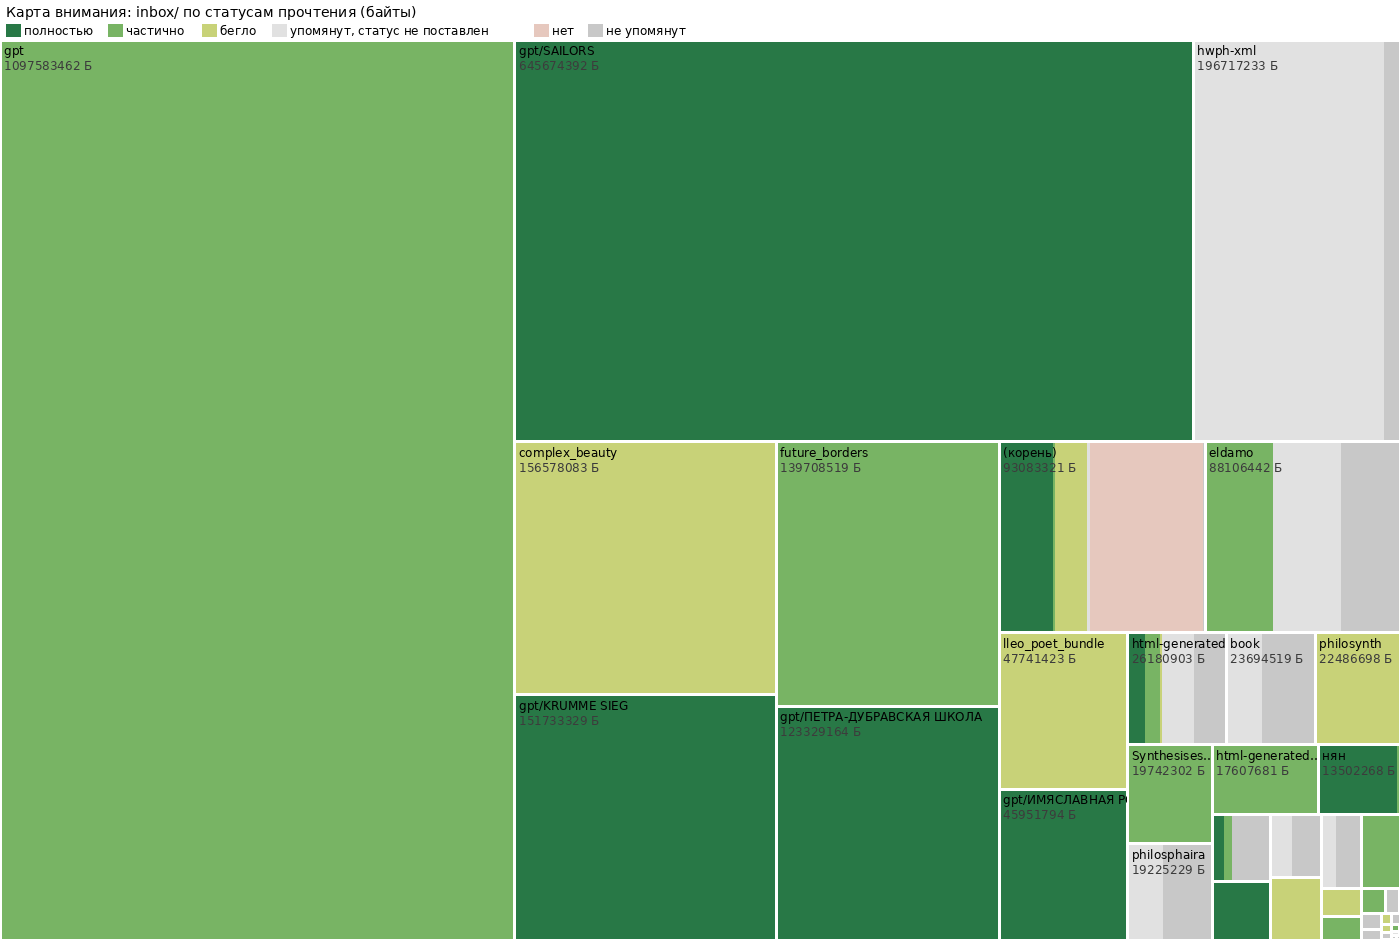
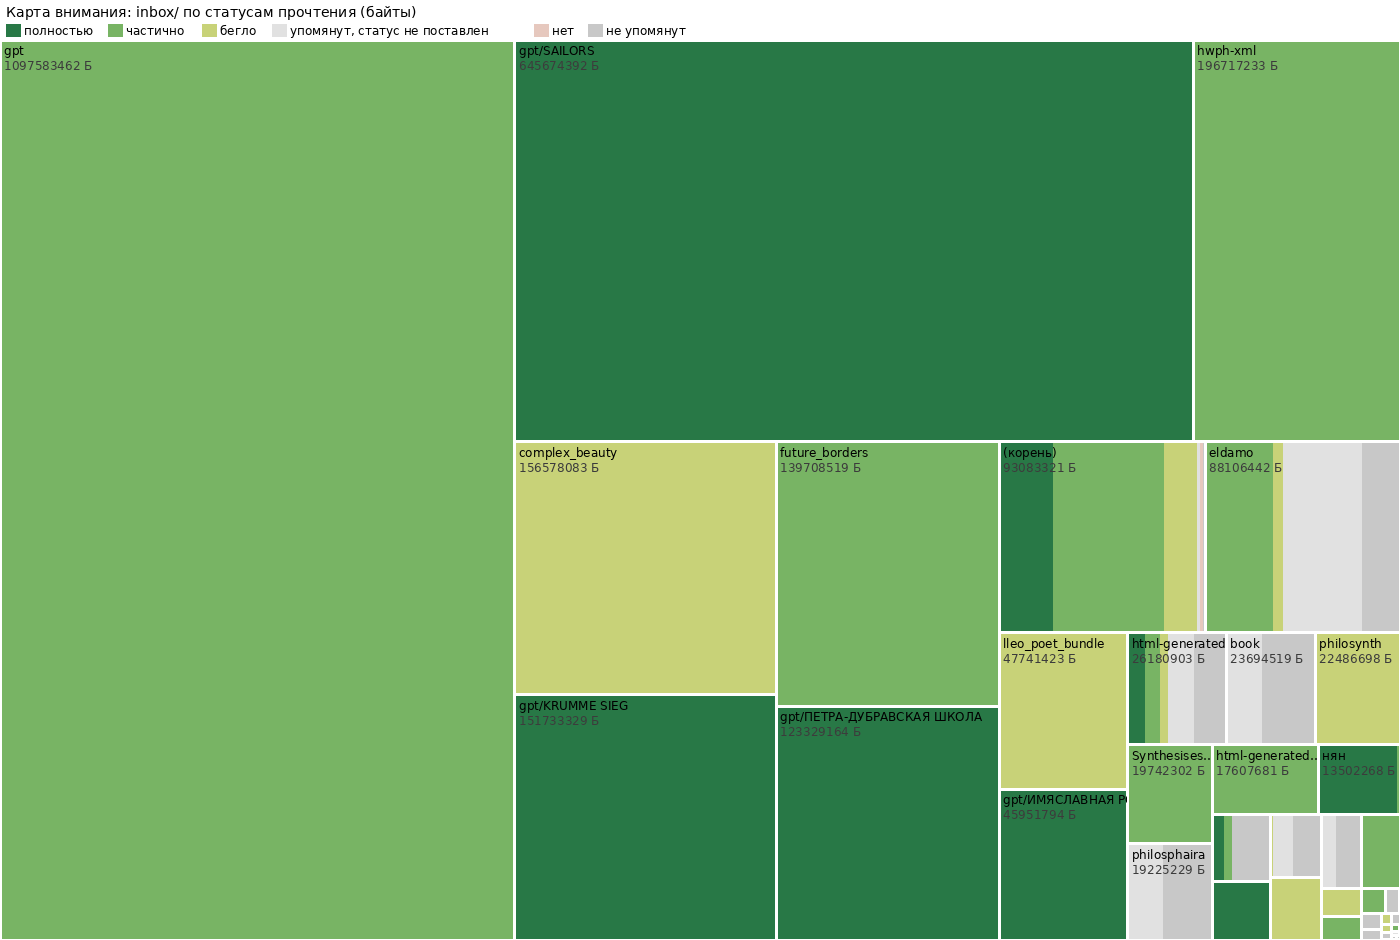
Карта: при равном префиксе побеждает нижняя строка

Changed region(s): [[0.7371, 0.0309, 1.0, 0.7713]]

diff --git a/proekty/karta/karta.py b/proekty/karta/karta.py
@@ -43,8 +43,11 @@ if os.path.exists(sp):
             continue
         parts = line.rstrip("\n").split("\t")
         parts += [""] * (3 - len(parts))
-        status.append((parts[0], parts[1], parts[2]))
-status.sort(key=lambda s: -len(s[0]))
+        status.append((parts[0], parts[1], parts[2], len(status)))
+# длиннее префикс — точнее; при равной длине побеждает строка ниже (дописанная позже уточняет прежнюю).
+# Прежде побеждала верхняя, и «нет» у «Великанов» заслоняло дописанное «частично» (пробуждение 19:01).
+status.sort(key=lambda s: (-len(s[0]), -s[3]))
+status = [s[:3] for s in status]
 
 def stat_of(rel):
     if any(part in SLUZH for part in rel.split("/")):

diff --git a/proekty/karta/karta.md b/proekty/karta/karta.md
@@ -1,6 +1,6 @@
 # Карта архива inbox/
 
-Порождается `karta.py` (не править руками; править `status.tsv`). Файлов: 6195. Статусы: частично — 1664, служебное — 1441, бегло — 1194, не упомянут — 949, полностью — 807, упомянут, статус не поставлен — 138, нет — 2.
+Порождается `karta.py` (не править руками; править `status.tsv`). Файлов: 6195. Статусы: частично — 1665, служебное — 1441, бегло — 1194, не упомянут — 949, полностью — 807, упомянут, статус не поставлен — 138, нет — 1.
 
 Статус — моё утверждение по дневнику и заметкам; «упом.» — сколько файлов единицы названы по имени хоть в одном моём файле (автоматически, не значит «прочитано»). Подробно по файлам — `upominaniya.tsv`.
 
@@ -22,7 +22,7 @@
 | `Tsiolkovskiy_tanka.txt` | 1 | 7 КБ | полностью | 1 | notes/sito-2020.md (стихи; Tsiolkovskiy_texty.txt — корпус, не читан) | `notes/sito-2020.md`, `proekty/proverki/sito_2020c.py` |
 | `Tsiolkovskiy_texty.txt` | 1 | 4 МБ | бегло | 1 | notes/sito-2020.md (корпус программы) | `notes/sito-2020.md`, `proekty/proverki/sito_2020c.py` |
 | `Vinya maitaren.txt` | 1 | 1 КБ | полностью | 1 | notes/vinya-maitaren.md | `diary/2026-10-18-1640.md`, `diary/2026-10-18-1457.md` |
-| `Vo_vremena_velikanov_kniga_ed_hardcover.pdf` | 1 | 47 МБ | нет | 0 |  |  |
+| `Vo_vremena_velikanov_kniga_ed_hardcover.pdf` | 1 | 47 МБ | частично | 0 | дневник 2026-10-18-1901 (стр. 1–40, без проверки) |  |
 | `ai_philosophy_crisis(1).md` | 1 | 78 КБ | частично | 1 | notes/spor-so-slepym-demiurgom.md | `notes/spor-so-slepym-demiurgom.md`, `notes/karta-inbox.md` |
 | `apeiron-article.pdf` | 1 | 207 КБ | полностью | 1 | notes/porog.md; дневник 2026-10-18-0408 | `diary/2026-10-18-0408.md`, `notes/porog.md` |
 | `cadia_stands_humoresques.md` | 1 | 20 КБ | упомянут, статус не поставлен | 1 |  | `notes/karta-inbox.md` |
@@ -107,7 +107,7 @@
 | `gpt/SAILORS` | 212 | 616 МБ | полностью | 2 | notes/sailors.md (листами; крупно — две) | `notes/imyaslavie.md`, `notes/karta-inbox.md` |
 | `gpt/ИМЯСЛАВНАЯ РОССИЯ` | 15 | 44 МБ | полностью | 0 | notes/imyaslavie.md |  |
 | `gpt/ПЕТРА-ДУБРАВСКАЯ ШКОЛА` | 43 | 118 МБ | полностью | 0 | notes/petra-dubrava.md |  |
-| `html-generated/` | 125 | 25 МБ | не упомянут 56, полностью 30, упомянут, статус не поставлен 19, частично 15, бегло 5 | 63 | notes/aidan-aelfwine.md; notes/aidan-sosud.md; notes/atomnye-modeli.md; notes/complex-trinity.md; notes/differance.md; notes/dve-komnaty.md; notes/geolimpiada.md; notes/karta-html.md (каталог есть; что не перечислено выше — смотреть столбец упоминаний); notes/konfucij-dvazhdy.md (тезисы не читаны); notes/kontinuum.md; notes/kvenya-holmy.md; notes/monadologiya.md; notes/muzyka-posledovatelnost.md; notes/odinnadcat-m.md; notes/otvet-gegel.md; notes/parmenid-levinas.md; notes/petra-dubrava.md; notes/pi-gallery.md; notes/providence-ssylki.md; notes/sad-soglasovanij.md; notes/vinilograf.md; notes/vitgenshtejn-sintez.md; notes/zhizn-figury.md (фигуры); proekty/aidan/; proekty/blanki/; proekty/hokku/README.md (без проверки); proekty/iass/; proekty/instrumenty/brauzer/snimki/kaleidoscope.png; дневник 2026-10-18-0842 (без проверки); дневник 2026-10-18-1640 (16:57, без проверки); дневник 2026-10-18-1640 (без проверки); дневник 2026-10-18-1807; дневник 2026-10-18-1901 (браузером + строки из кода); дневник 2026-10-18-1901 (браузером); дневник 2026-10-18-1901 (живьём: форма, нужен ключ API); раздел CLAUDE.md: «только диалог» | `notes/slova-mutanty.md`, `notes/karta-inbox.md` |
+| `html-generated/` | 125 | 25 МБ | не упомянут 56, полностью 30, упомянут, статус не поставлен 19, частично 15, бегло 5 | 63 | notes/aidan-aelfwine.md; notes/aidan-sosud.md; notes/atomnye-modeli.md; notes/complex-trinity.md; notes/differance.md; notes/dve-komnaty.md; notes/geolimpiada.md; notes/karta-html.md (каталог есть; что не перечислено выше — смотреть столбец упоминаний); notes/konfucij-dvazhdy.md (тезисы не читаны); notes/kontinuum.md; notes/kvenya-holmy.md; notes/monadologiya.md; notes/muzyka-posledovatelnost.md; notes/odinnadcat-m.md; notes/otvet-gegel.md; notes/parmenid-levinas.md; notes/petra-dubrava.md; notes/pi-gallery.md; notes/providence-ssylki.md; notes/sad-soglasovanij.md; notes/vinilograf.md; notes/vitgenshtejn-sintez.md; notes/zhizn-figury.md (фигуры); proekty/aidan/; proekty/blanki/; proekty/hokku/README.md (без проверки); proekty/iass/; proekty/instrumenty/brauzer/snimki/kaleidoscope.png; дневник 2026-10-18-0842 (без проверки); дневник 2026-10-18-1640 (16:57, без проверки); дневник 2026-10-18-1640 (без проверки); дневник 2026-10-18-1807, 1901 (живьём); дневник 2026-10-18-1901 (браузером + строки из кода); дневник 2026-10-18-1901 (браузером); дневник 2026-10-18-1901 (живьём: форма, нужен ключ API); раздел CLAUDE.md: «только диалог» | `notes/slova-mutanty.md`, `notes/karta-inbox.md` |
 | `html-generated/maps` | 72 | 18 МБ | служебное 59, частично 13 | 4 | proekty/rody-oshibok/ (тест 3: формулы проекций) | `proekty/rody-oshibok/README.md`, `proekty/proverki/proekcii.py` |
 | `html-generated/waves` | 11 | 2 МБ | частично | 1 | дневник 2026-10-18-1901 (браузером: комната Токарского) | `diary/2026-10-18-1901.md`, `notes/zhivoe-i-kod.md` |
 | `html-generated/webmap` | 24 | 7 МБ | не упомянут 20, упомянут, статус не поставлен 4 | 4 | notes/karta-html.md (каталог есть; что не перечислено выше — смотреть столбец упоминаний) | `diary/2026-10-18-1901.md`, `diary/2026-10-18-0737.md` |
